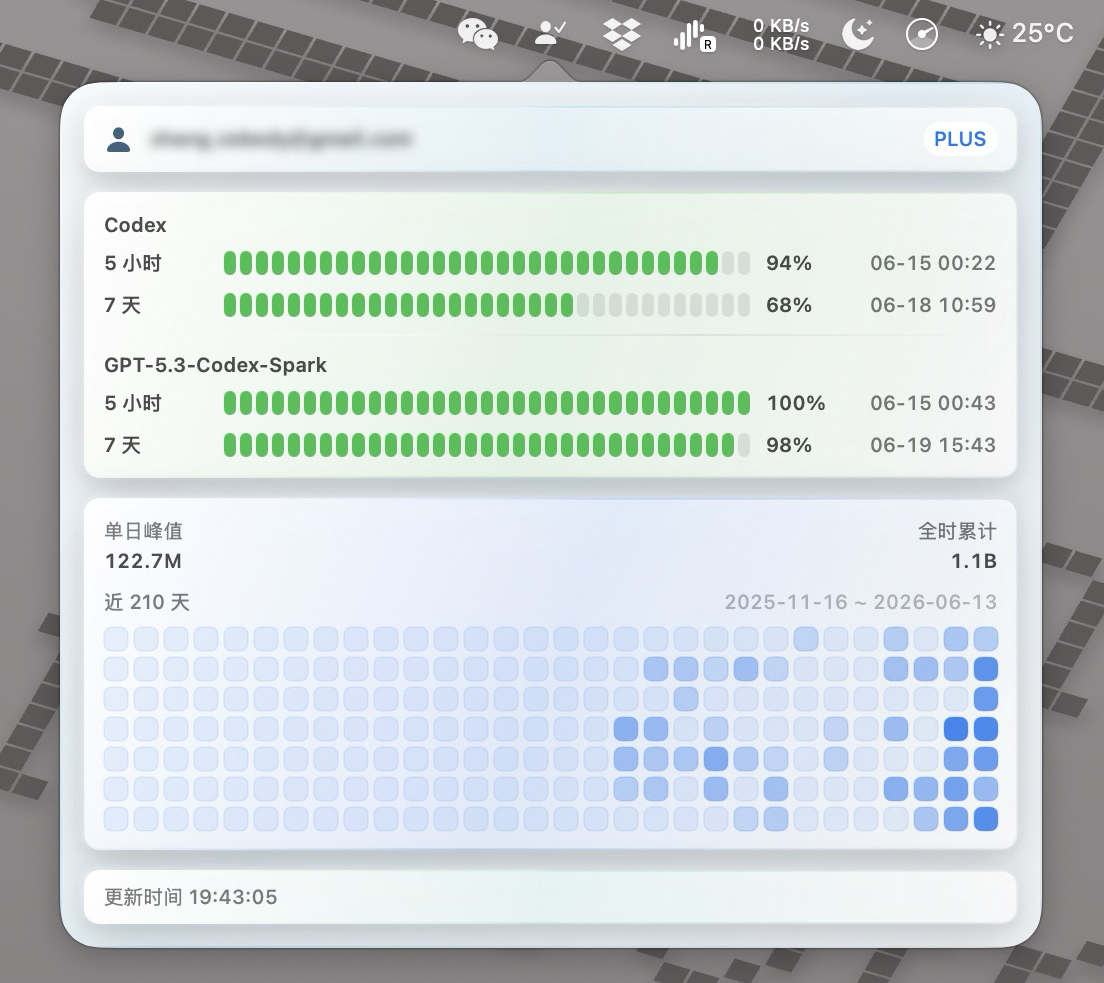
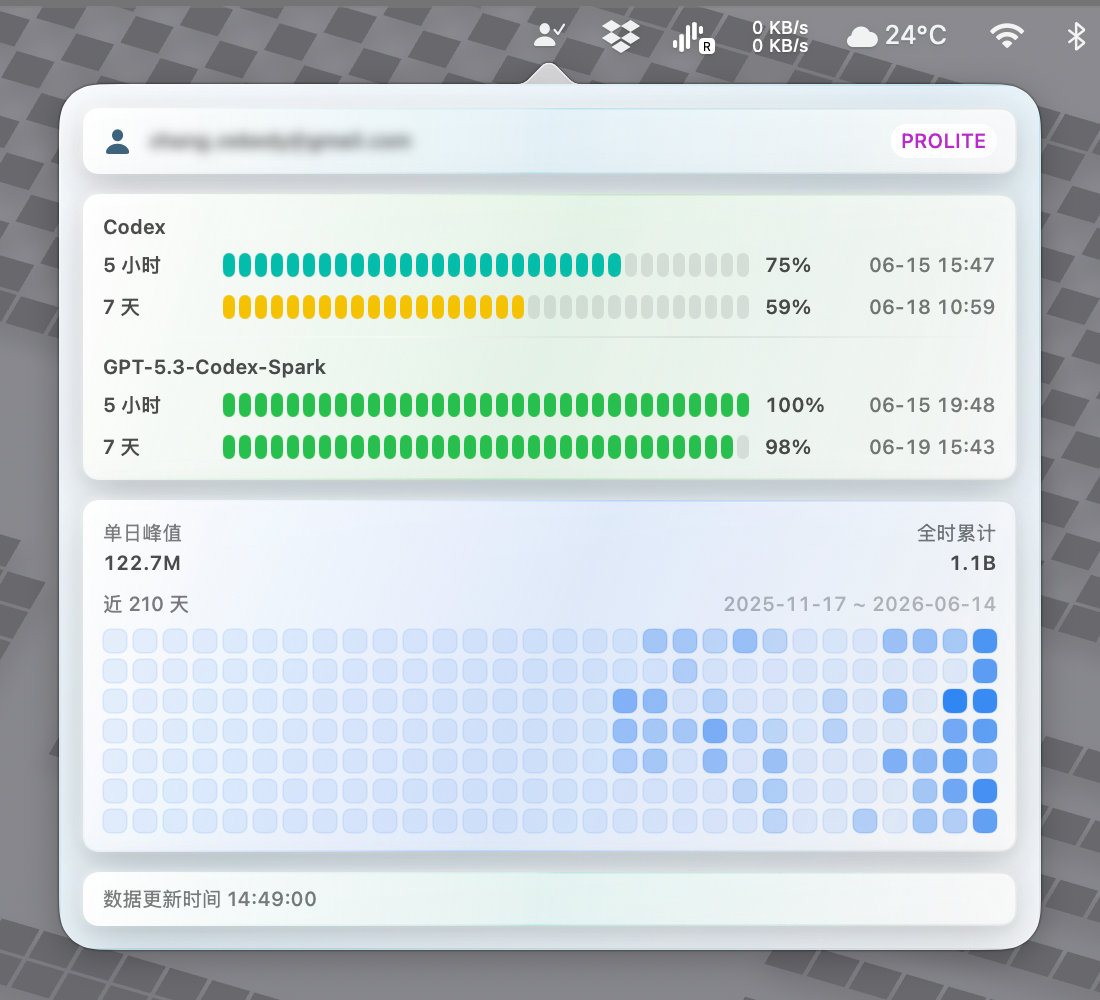
feat: 调整额度条颜色分档
- 将额度条按剩余额度每 20% 一档显示颜色
    - 同步 CodexBar 项目约定中的版本展示与额度条说明
    - 更新 1.3.5 发布版本、appcast 和截图资源

diff --git a/CodexBar/QuotaRow.swift b/CodexBar/QuotaRow.swift
@@ -122,9 +122,13 @@ private extension SegmentedQuotaBar {
         }
         
         switch percent {
-        case 50...:
+        case 80...:
             return .green
-        case 25..<50:
+        case 60..<80:
+            return .mint
+        case 40..<60:
+            return .yellow
+        case 20..<40:
             return .orange
         default:
             return .red

diff --git a/AGENTS.md b/AGENTS.md
@@ -16,7 +16,9 @@ Xcode target 关闭了 App Sandbox,因为应用需要启动本机 Codex CLI/App 
 xcodebuild -project CodexBar.xcodeproj -scheme CodexBar -destination 'generic/platform=macOS' build
 ```
 
-要求无 error 和 warning。SourceKit 经常对跨文件类型误报「Cannot find type ... in scope」(索引滞后),以 `xcodebuild` 实际编译结果为准。文档、图片或发布元数据的纯修改可以不跑构建,但最终回复要说明未运行。
+要求无 error 和 warning
+
+SourceKit 经常对跨文件类型误报「Cannot find type ... in scope」(索引滞后),以 `xcodebuild` 实际编译结果为准。当前 Xcode 可能输出 `Metadata extraction skipped. No AppIntents.framework dependency found.` 的 metadata 阶段 warning,不作为项目代码 warning 处理。文档、图片或发布元数据的纯修改可以不跑构建,但最终回复要说明未运行。
 
 工程使用文件系统同步组(`PBXFileSystemSynchronizedRootGroup`):新增/删除 `CodexBar/` 下源码通常无需修改 `project.pbxproj`,只有依赖、target/build settings 或资源归属变更才需要改它。
 
@@ -25,23 +27,25 @@ xcodebuild -project CodexBar.xcodeproj -scheme CodexBar -destination 'generic/pl
 数据流:`CodexRateLimitService`(JSON-RPC 常驻连接)→ `RateLimitsViewModel`(状态发布)→ `StatusItemController`(菜单栏图标刷新)/`RateLimitsMenuView`(popover 弹窗)。
 
 - `CodexBarApp.swift`:`@main`,仅声明占位 `Settings { EmptyView() }` Scene;真实 UI 由 `CodexBarAppDelegate` 驱动。同文件有 `nonisolated extension Bundle` 提供 `shortVersionString` 和 `displayVersionLabel`(`v1.2.3`,缺失回退 `--`)。
-- `StatusItemController.swift`:`CodexBarAppDelegate` 持有 `RateLimitsViewModel` 和 `AppUpdater`。私有 `StatusItemController` 配置菜单栏按钮、popover、Combine 订阅和自动刷新;左键切换 popover,右键或 Control 点击弹出「设置 / 退出」菜单。popover 使用手写淡入淡出、`PopoverState` 状态机、本地/全局 mouse monitor 外部点击关闭,并在显示后延迟调用 `refreshIfNeeded()`。
-- `SettingsWindowController.swift`:独立管理设置窗口生命周期,复用同一个 `NSWindow`,通过 status item 所在屏幕居中,内容为注入 `AppUpdater` 的 `AppSettingsView`。
-- `RateLimitsViewModel.swift`:主线程 `ObservableObject`,只发布 `snapshot`、`isRefreshing`、`lastError`。错误状态单一来源是 `lastError: CodexRateLimitError?`,`errorMessage`、`requiresLogin`、`hasError` 都是派生计算属性,不要增加并列错误布尔或重复错误字符串状态。
-- `CodexRateLimitService.swift`:非 UI 服务,负责 app-server 进程、JSON-RPC 请求/响应、连接复用、认证重试和 usage 能力降级。
+- `StatusItemController.swift`:`CodexBarAppDelegate` 持有 `RateLimitsViewModel` 和 `AppUpdater`。私有 `StatusItemController` 配置菜单栏按钮、popover、Combine 订阅和自动刷新;左键切换 popover,右键或 Control 点击弹出「设置 / 退出」菜单。popover 使用手写淡入淡出、`PopoverState` 状态机、本地/全局 mouse monitor 外部点击关闭,并在显示后延迟调用 `refreshIfNeeded()`;设置窗口注入同一个 `RateLimitsViewModel` 和 `AppUpdater`。
+- `SettingsWindowController.swift`:独立管理设置窗口生命周期,复用同一个 `NSWindow`,内容为注入 `RateLimitsViewModel` 和 `AppUpdater` 的 `AppSettingsView`。首次显示或关闭后重开时通过 status item 所在屏幕居中;窗口已可见时再次打开只负责 `deminiaturize`、激活应用并置顶,不要重新居中或创建第二个窗口。
+- `RateLimitsViewModel.swift`:主线程 `ObservableObject`,发布 `snapshot`、`isRefreshing`、`lastError` 和 `codexConnectionInfo`。错误状态单一来源是 `lastError: CodexRateLimitError?`,`errorMessage`、`requiresLogin`、`hasError` 都是派生计算属性,不要增加并列错误布尔或重复错误字符串状态。`codexConnectionInfo` 来自 `CodexRateLimitService.currentConnectionInfo()`。
+- `CodexRateLimitService.swift`:非 UI 服务,负责 app-server 进程、JSON-RPC 请求/响应、连接复用、认证重试、usage 能力降级,并记录当前连接实际启动的 Codex 来源、路径和运行版本。
+- `CodexCLIResolver.swift`:Codex 可执行文件解析和 app-server 环境构造入口。负责区分 PATH 中的全局 `codex` 与 `/Applications/Codex.app/Contents/Resources/codex`,并给 app-server 和版本探测共用同一份真实用户环境。
+- `CodexCLIVersionService.swift`:设置页 Codex 版本探测服务和展示模型。并发读取全局 CLI 与 Codex App 内置 CLI 的 `--version`,合成磁盘安装版本、当前运行版本和「已更新至」提示。
 - `RateLimitModels.swift`:wire DTO 保持纯 `Decodable`,展示排序/兜底只放在业务快照转换里。核心模型是 `CodexQuotaSnapshot` → `CodexQuotaLimitSnapshot` → `QuotaWindow`,以及 `CodexUsageSnapshot`。
 - `RateLimitsMenuView.swift`:popover 主 UI,负责登录提示、账号卡片、limit 分节、使用量卡片、更新时间和错误行。邮箱双击可模糊/取消模糊,账号图标双击触发手动刷新。
 - `QuotaRow.swift`:单个 quota window 行和 `SegmentedQuotaBar`;条形图展示剩余额度而不是已用额度。
-- `UsageHeatmap.swift` / `TokenCountText.swift`:token 汇总、30 列 × 7 行热力图、hover tooltip 和 K/M/B 紧凑数字格式。
-- `AppSettingsView.swift` / `LoginItemSettings.swift`:设置窗口 UI 和 `SMAppService.mainApp` 开机自启。开机自启状态读取是同步 XPC,在设置窗口 `onAppear` 刷新。
+- `UsageHeatmap.swift` / `TokenCountText.swift`:token 汇总、30 列 × 7 行热力图、hover tooltip 和 token 数字格式。`TokenCountText` 对 1K 以下直接显示完整整数,1K 起使用 K/M/B 紧凑格式。
+- `AppSettingsView.swift` / `LoginItemSettings.swift`:设置窗口 UI、`SMAppService.mainApp` 开机自启和 Codex 版本区。开机自启状态读取是同步 XPC,在设置窗口 `onAppear` 刷新;Codex 版本区展示 CodexBar 版本、Codex CLI/Codex APP 版本与路径,路径点击复制并短暂显示「已复制」。
 - `AppUpdater.swift`:Sparkle 封装和更新状态文案路由。
 - `LiquidGlassStyle.swift`:Liquid Glass 视觉入口,包括 `.liquidGlassSurface(...)`、`.liquidGlassCapsule(...)` 和 `LiquidGlassDivider`。
 
 ## Codex app-server 连接
 
-启动命令为 `codex app-server --listen stdio://`。解析命令时优先找 PATH 中的全局 `codex`,但如果找到的路径等同于 `/Applications/Codex.app/Contents/Resources/codex`,则按内置 Codex.app CLI 处理;全局 CLI 不存在时回退 Codex.app 内置 CLI;两者都没有时展示「找不到 Codex CLI 或 Codex App」。
+启动命令为 `codex app-server --listen stdio://`。解析命令统一走 `CodexCLIResolver.resolveAppServerCommand()`:优先找 PATH 中的全局 `codex`,但如果找到的路径等同于 `/Applications/Codex.app/Contents/Resources/codex`,则按内置 Codex.app CLI 处理;全局 CLI 不存在时回退 Codex.app 内置 CLI;两者都没有时展示「找不到 Codex CLI 或 Codex App」。
 
-启动环境由 `CodexRateLimitService.appServerEnvironment()` 构造:保留当前环境,但 `HOME` 使用 `getpwuid(getuid())` 得到的真实用户 home,同步设置 `USER`、`LOGNAME`,合并 Homebrew、npm global、`.local`、Volta 和系统路径,并确保 `TERM` 有值。不要改回 Xcode sandbox/container 的 `HOME`,否则会读不到 `~/.codex/auth.json`。
+启动环境由 `CodexCLIResolver.environment` 构造:保留当前环境,但 `HOME` 使用 `getpwuid(getuid())` 得到的真实用户 home,同步设置 `USER`、`LOGNAME`,合并 Homebrew、npm global、`.local`、Volta 和系统路径,并确保 `TERM` 有值。不要改回 Xcode sandbox/container 的 `HOME`,否则会读不到 `~/.codex/auth.json`。
 
 应用维持一条常驻连接。首次握手必须在请求额度前完成:
 
@@ -56,7 +60,22 @@ xcodebuild -project CodexBar.xcodeproj -scheme CodexBar -destination 'generic/pl
 - `account/rateLimits/read`:额度数据,认证失败时先同会话调用 `account/read`(`refreshToken: true`)再重试一次;仍失败抛 `authenticationRequired`。
 - `account/usage/read`:token 统计,读取 `summary.lifetimeTokens`、`summary.peakDailyTokens`、`dailyUsageBuckets`。如果 app-server 返回 method not found/unknown/unsupported/not supported,当前连接的 `isUsageReadAvailable` 置为 false,本连接后续不再请求 usage;其他 usage 错误也只隐藏 token 区域,额度信息仍正常显示。
 
+`initialize` 响应解析为 `InitializeResult`,其中 `userAgent` 的首个 token 形如 `codex_bar/0.139.0 (...)`;`CodexRateLimitService.serverVersion(fromUserAgent:)` 取 `/` 后版本号作为当前运行版本。每条连接保存 `CodexCLIConnectionInfo(source, executablePath, version, openedAt)`,设置页用它标记「当前使用」。
+
 `requestTimeout` 是 20 秒。`JSONLineReader` 按行读取 stdout,只消费匹配请求 id 的响应;`PipeDrain` 持续排空 stderr 且不进入用户可见文案。
+
+## Codex 版本展示
+
+设置页的「Codex 版本」分区同时展示两个来源:
+
+- `Codex CLI`:PATH 中解析到的全局 CLI,图标使用 `terminal`。
+- `Codex APP`:`/Applications/Codex.app/Contents/Resources/codex` 或等价路径,图标使用 `app.badge`。
+
+`CodexCLIVersionService` 通过 `codex --version` 探测磁盘安装版本,全局和内置两个探测先并发启动再分别收集,单个探测超时 5 秒。探测错误只展示固定文案(`启动失败`/`读取超时`/`读取失败`/`版本未知`),不要把 stderr 原文透传给用户。
+
+`CodexCLIVersionViewModel.refresh()` 会合并并发触发,并对 60 秒内的重复触发节流。设置页在 `onAppear` 和 `NSApplication.didBecomeActiveNotification` 时调用刷新;当前没有用户可见的手动刷新按钮。路径行点击后复制到剪贴板,对应来源显示「已复制」1.5 秒。
+
+当前使用来源由 `RateLimitsViewModel.codexConnectionInfo` 决定。当前行优先展示 app-server 握手自报的运行版本;非当前行展示磁盘安装版本。如果当前运行版本与磁盘安装版本不同,说明后台升级后当前连接尚未重建,UI 显示「已更新至 <version>」。app-server 每小时连接回收后会重新握手并更新当前运行版本。
 
 ## 额度与使用量模型
 
@@ -76,7 +95,7 @@ xcodebuild -project CodexBar.xcodeproj -scheme CodexBar -destination 'generic/pl
 `CodexRateLimitService` 是 `nonisolated final class` + `@unchecked Sendable`,连接状态只在私有串行 `DispatchQueue(label: "CodexBar.app-server")` 上读写。
 
 - 进程已退出 → 重建。
-- 连接存活超过 `connectionMaxAge`(1 小时)→ 关闭后重建,覆盖 Codex 升级或服务端状态漂移。
+- 连接存活超过 `connectionMaxAge`(1 小时)→ 关闭后重建,覆盖 Codex 升级或服务端状态漂移,并刷新 `CodexCLIConnectionInfo` 的运行版本。
 - 复用连接上的非登录类请求失败 → 丢弃连接,重建一次再试。
 - 全新连接上的失败 → 直接抛出,避免故障时重复完整握手。
 - 登录类错误(`requiresLogin`)→ 丢弃连接但不立即重试;下次轮询重新启动进程读取最新登录状态,用户重新登录后最多一分钟自动恢复。
@@ -85,7 +104,7 @@ xcodebuild -project CodexBar.xcodeproj -scheme CodexBar -destination 'generic/pl
 
 工程开启 `SWIFT_DEFAULT_ACTOR_ISOLATION = MainActor`:未显式标注的类型会推断为 MainActor 隔离。因此非 UI 类型、DTO、模型、服务辅助类型和部分静态工具必须显式 `nonisolated`,否则容易出现「Call to main actor-isolated initializer in a synchronous nonisolated context」。
 
-UI 层(`CodexBarAppDelegate`、`StatusItemController`、`SettingsWindowController`、`RateLimitsViewModel`、`AppUpdater`、`LoginItemSettings`)保持 `@MainActor` 或主线程使用。服务层对外暴露 async API,内部用 queue 串行化 Process/Pipe 状态。
+UI 层(`CodexBarAppDelegate`、`StatusItemController`、`SettingsWindowController`、`RateLimitsViewModel`、`AppUpdater`、`LoginItemSettings`、`CodexCLIVersionViewModel`)保持 `@MainActor` 或主线程使用。服务层对外暴露 async API,内部用 queue 串行化 Process/Pipe 状态。`CodexRateLimitService` 使用 `CodexBar.app-server` 串行队列,`CodexCLIVersionService` 使用 `CodexBar.codex-version` 串行队列。
 
 ## UI 与错误展示约定
 
@@ -93,12 +112,13 @@ UI 层(`CodexBarAppDelegate`、`StatusItemController`、`SettingsWindowControlle
 - App 图标保持白底黑色 `timelapse`。
 - popover 宽度由 `RateLimitsMenuView.menuWidth` 绑定到热力图总宽度和 padding;修改热力图尺寸时同步检查弹窗宽度。
 - 弹窗整体采用 Liquid Glass 风格:外层和分区使用 `.liquidGlassSurface(...)`,plan 徽章用 `.liquidGlassCapsule`,分隔线用 `LiquidGlassDivider`。不要把设置、额度、usage 区块改回普通卡片样式。
+- `LiquidGlassStyle.swift` 当前是自绘 SwiftUI 玻璃效果(渐变、描边、高光和阴影),不是 macOS 26 原生 `.glassEffect`。不要在没有明确设计要求时切换到系统 `.glassEffect`,当前视觉以自绘方案为准。
 - plan 徽章颜色由 `planBadgeTint(for:)` 按子串匹配,优先级:enterprise → team/business → pro → plus → edu → free → 默认 cyan。
 - 弹窗按 limit 分节展示,标题取 `limitName` 回退 `limitId` 并首字母大写;节之间用 `LiquidGlassDivider`。
-- 额度条展示剩余百分比(`100 - usedPercent`),颜色阈值:剩余 50% 及以上绿色,25% 到 50% 橙色,低于 25% 红色;无数据使用占位色并显示 `--` / `暂无数据`。
+- 额度条展示剩余百分比(`100 - usedPercent`),颜色按 20% 一档递进:0-19 红色,20-39 橙色,40-59 黄色,60-79 薄荷色,80-100 绿色;无数据使用占位色并显示 `--` / `暂无数据`。
 - 重置时间格式 `MM-dd HH:mm`,更新时间格式 `HH:mm:ss`;更新时间行不展示应用版本号。
-- token 区域显示「单日峰值」和「全时累计」,数字通过 `TokenCountText` 格式化为 K/M/B,下方是 30 × 7 蓝色热力图;hover tooltip 显示日期和单日 token。
-- 设置走菜单栏图标右键或 Control 点击菜单的「设置」项,打开独立 `AppSettingsView` 窗口;不要恢复为 Option 点击或 popover 内设置区。
+- token 区域显示「单日峰值」和「全时累计」,数字通过 `TokenCountText` 格式化;1K 以下直接显示整数,1K 起显示 K/M/B。下方是 30 × 7 蓝色热力图;hover tooltip 显示日期和单日 token。
+- 设置走菜单栏图标右键或 Control 点击菜单的「设置」项,打开独立 `AppSettingsView` 窗口;不要恢复为 Option 点击或 popover 内设置区。设置页包含「CodexBar 版本」和「Codex 版本」两个版本区域;Codex CLI/Codex APP 子行相对标题缩进,并用「当前使用」徽章标记实际运行来源。
 - 登录类错误(`requiresLogin`)时,popover 顶部显示橙色「Codex 未登录」,旧快照 opacity 0.4 置灰保留,红色错误行被抑制。
 - 其他错误显示红色小字 `errorDescription`,旧快照保持全亮度。
 - `refresh()` 开始时不要清空 `lastError`;错误文案保持到某次刷新成功才消失。旧额度快照永远不因失败而清空。
@@ -122,7 +142,7 @@ Info.plist 位于 `CodexBar/Resources/Info.plist`,当前 `SUFeedURL = https://co
 
 CodexBar 只与本机 app-server 进程通信,账号与额度数据不发往第三方服务。除 Sparkle appcast/DMG 下载外,应用自身不做网络请求。
 
-App Sandbox 必须保持关闭(`ENABLE_APP_SANDBOX = NO`),否则无法可靠启动 Codex CLI 或读取当前用户登录状态。服务层必须用真实用户 home 运行 app-server,以免 Xcode 运行时 `HOME` 指向 app container 导致 "codex account authentication required"。
+App Sandbox 必须保持关闭(`ENABLE_APP_SANDBOX = NO`),否则无法可靠启动 Codex CLI 或读取当前用户登录状态。`CodexCLIResolver.environment` 必须用真实用户 home 运行 app-server 和版本探测,以免 Xcode 运行时 `HOME` 指向 app container 导致 "codex account authentication required"。
 
 ## Git 提交规范
 

diff --git a/CLAUDE.md b/CLAUDE.md
@@ -16,7 +16,9 @@ Xcode target 关闭了 App Sandbox,因为应用需要启动本机 Codex CLI/App 
 xcodebuild -project CodexBar.xcodeproj -scheme CodexBar -destination 'generic/platform=macOS' build
 ```
 
-要求无 error 和 warning。SourceKit 经常对跨文件类型误报「Cannot find type ... in scope」(索引滞后),以 `xcodebuild` 实际编译结果为准。文档、图片或发布元数据的纯修改可以不跑构建,但最终回复要说明未运行。
+要求无 error 和 warning
+
+SourceKit 经常对跨文件类型误报「Cannot find type ... in scope」(索引滞后),以 `xcodebuild` 实际编译结果为准。当前 Xcode 可能输出 `Metadata extraction skipped. No AppIntents.framework dependency found.` 的 metadata 阶段 warning,不作为项目代码 warning 处理。文档、图片或发布元数据的纯修改可以不跑构建,但最终回复要说明未运行。
 
 工程使用文件系统同步组(`PBXFileSystemSynchronizedRootGroup`):新增/删除 `CodexBar/` 下源码通常无需修改 `project.pbxproj`,只有依赖、target/build settings 或资源归属变更才需要改它。
 
@@ -25,23 +27,25 @@ xcodebuild -project CodexBar.xcodeproj -scheme CodexBar -destination 'generic/pl
 数据流:`CodexRateLimitService`(JSON-RPC 常驻连接)→ `RateLimitsViewModel`(状态发布)→ `StatusItemController`(菜单栏图标刷新)/`RateLimitsMenuView`(popover 弹窗)。
 
 - `CodexBarApp.swift`:`@main`,仅声明占位 `Settings { EmptyView() }` Scene;真实 UI 由 `CodexBarAppDelegate` 驱动。同文件有 `nonisolated extension Bundle` 提供 `shortVersionString` 和 `displayVersionLabel`(`v1.2.3`,缺失回退 `--`)。
-- `StatusItemController.swift`:`CodexBarAppDelegate` 持有 `RateLimitsViewModel` 和 `AppUpdater`。私有 `StatusItemController` 配置菜单栏按钮、popover、Combine 订阅和自动刷新;左键切换 popover,右键或 Control 点击弹出「设置 / 退出」菜单。popover 使用手写淡入淡出、`PopoverState` 状态机、本地/全局 mouse monitor 外部点击关闭,并在显示后延迟调用 `refreshIfNeeded()`。
-- `SettingsWindowController.swift`:独立管理设置窗口生命周期,复用同一个 `NSWindow`,通过 status item 所在屏幕居中,内容为注入 `AppUpdater` 的 `AppSettingsView`。
-- `RateLimitsViewModel.swift`:主线程 `ObservableObject`,只发布 `snapshot`、`isRefreshing`、`lastError`。错误状态单一来源是 `lastError: CodexRateLimitError?`,`errorMessage`、`requiresLogin`、`hasError` 都是派生计算属性,不要增加并列错误布尔或重复错误字符串状态。
-- `CodexRateLimitService.swift`:非 UI 服务,负责 app-server 进程、JSON-RPC 请求/响应、连接复用、认证重试和 usage 能力降级。
+- `StatusItemController.swift`:`CodexBarAppDelegate` 持有 `RateLimitsViewModel` 和 `AppUpdater`。私有 `StatusItemController` 配置菜单栏按钮、popover、Combine 订阅和自动刷新;左键切换 popover,右键或 Control 点击弹出「设置 / 退出」菜单。popover 使用手写淡入淡出、`PopoverState` 状态机、本地/全局 mouse monitor 外部点击关闭,并在显示后延迟调用 `refreshIfNeeded()`;设置窗口注入同一个 `RateLimitsViewModel` 和 `AppUpdater`。
+- `SettingsWindowController.swift`:独立管理设置窗口生命周期,复用同一个 `NSWindow`,内容为注入 `RateLimitsViewModel` 和 `AppUpdater` 的 `AppSettingsView`。首次显示或关闭后重开时通过 status item 所在屏幕居中;窗口已可见时再次打开只负责 `deminiaturize`、激活应用并置顶,不要重新居中或创建第二个窗口。
+- `RateLimitsViewModel.swift`:主线程 `ObservableObject`,发布 `snapshot`、`isRefreshing`、`lastError` 和 `codexConnectionInfo`。错误状态单一来源是 `lastError: CodexRateLimitError?`,`errorMessage`、`requiresLogin`、`hasError` 都是派生计算属性,不要增加并列错误布尔或重复错误字符串状态。`codexConnectionInfo` 来自 `CodexRateLimitService.currentConnectionInfo()`。
+- `CodexRateLimitService.swift`:非 UI 服务,负责 app-server 进程、JSON-RPC 请求/响应、连接复用、认证重试、usage 能力降级,并记录当前连接实际启动的 Codex 来源、路径和运行版本。
+- `CodexCLIResolver.swift`:Codex 可执行文件解析和 app-server 环境构造入口。负责区分 PATH 中的全局 `codex` 与 `/Applications/Codex.app/Contents/Resources/codex`,并给 app-server 和版本探测共用同一份真实用户环境。
+- `CodexCLIVersionService.swift`:设置页 Codex 版本探测服务和展示模型。并发读取全局 CLI 与 Codex App 内置 CLI 的 `--version`,合成磁盘安装版本、当前运行版本和「已更新至」提示。
 - `RateLimitModels.swift`:wire DTO 保持纯 `Decodable`,展示排序/兜底只放在业务快照转换里。核心模型是 `CodexQuotaSnapshot` → `CodexQuotaLimitSnapshot` → `QuotaWindow`,以及 `CodexUsageSnapshot`。
 - `RateLimitsMenuView.swift`:popover 主 UI,负责登录提示、账号卡片、limit 分节、使用量卡片、更新时间和错误行。邮箱双击可模糊/取消模糊,账号图标双击触发手动刷新。
 - `QuotaRow.swift`:单个 quota window 行和 `SegmentedQuotaBar`;条形图展示剩余额度而不是已用额度。
-- `UsageHeatmap.swift` / `TokenCountText.swift`:token 汇总、30 列 × 7 行热力图、hover tooltip 和 K/M/B 紧凑数字格式。
-- `AppSettingsView.swift` / `LoginItemSettings.swift`:设置窗口 UI 和 `SMAppService.mainApp` 开机自启。开机自启状态读取是同步 XPC,在设置窗口 `onAppear` 刷新。
+- `UsageHeatmap.swift` / `TokenCountText.swift`:token 汇总、30 列 × 7 行热力图、hover tooltip 和 token 数字格式。`TokenCountText` 对 1K 以下直接显示完整整数,1K 起使用 K/M/B 紧凑格式。
+- `AppSettingsView.swift` / `LoginItemSettings.swift`:设置窗口 UI、`SMAppService.mainApp` 开机自启和 Codex 版本区。开机自启状态读取是同步 XPC,在设置窗口 `onAppear` 刷新;Codex 版本区展示 CodexBar 版本、Codex CLI/Codex APP 版本与路径,路径点击复制并短暂显示「已复制」。
 - `AppUpdater.swift`:Sparkle 封装和更新状态文案路由。
 - `LiquidGlassStyle.swift`:Liquid Glass 视觉入口,包括 `.liquidGlassSurface(...)`、`.liquidGlassCapsule(...)` 和 `LiquidGlassDivider`。
 
 ## Codex app-server 连接
 
-启动命令为 `codex app-server --listen stdio://`。解析命令时优先找 PATH 中的全局 `codex`,但如果找到的路径等同于 `/Applications/Codex.app/Contents/Resources/codex`,则按内置 Codex.app CLI 处理;全局 CLI 不存在时回退 Codex.app 内置 CLI;两者都没有时展示「找不到 Codex CLI 或 Codex App」。
+启动命令为 `codex app-server --listen stdio://`。解析命令统一走 `CodexCLIResolver.resolveAppServerCommand()`:优先找 PATH 中的全局 `codex`,但如果找到的路径等同于 `/Applications/Codex.app/Contents/Resources/codex`,则按内置 Codex.app CLI 处理;全局 CLI 不存在时回退 Codex.app 内置 CLI;两者都没有时展示「找不到 Codex CLI 或 Codex App」。
 
-启动环境由 `CodexRateLimitService.appServerEnvironment()` 构造:保留当前环境,但 `HOME` 使用 `getpwuid(getuid())` 得到的真实用户 home,同步设置 `USER`、`LOGNAME`,合并 Homebrew、npm global、`.local`、Volta 和系统路径,并确保 `TERM` 有值。不要改回 Xcode sandbox/container 的 `HOME`,否则会读不到 `~/.codex/auth.json`。
+启动环境由 `CodexCLIResolver.environment` 构造:保留当前环境,但 `HOME` 使用 `getpwuid(getuid())` 得到的真实用户 home,同步设置 `USER`、`LOGNAME`,合并 Homebrew、npm global、`.local`、Volta 和系统路径,并确保 `TERM` 有值。不要改回 Xcode sandbox/container 的 `HOME`,否则会读不到 `~/.codex/auth.json`。
 
 应用维持一条常驻连接。首次握手必须在请求额度前完成:
 
@@ -56,7 +60,22 @@ xcodebuild -project CodexBar.xcodeproj -scheme CodexBar -destination 'generic/pl
 - `account/rateLimits/read`:额度数据,认证失败时先同会话调用 `account/read`(`refreshToken: true`)再重试一次;仍失败抛 `authenticationRequired`。
 - `account/usage/read`:token 统计,读取 `summary.lifetimeTokens`、`summary.peakDailyTokens`、`dailyUsageBuckets`。如果 app-server 返回 method not found/unknown/unsupported/not supported,当前连接的 `isUsageReadAvailable` 置为 false,本连接后续不再请求 usage;其他 usage 错误也只隐藏 token 区域,额度信息仍正常显示。
 
+`initialize` 响应解析为 `InitializeResult`,其中 `userAgent` 的首个 token 形如 `codex_bar/0.139.0 (...)`;`CodexRateLimitService.serverVersion(fromUserAgent:)` 取 `/` 后版本号作为当前运行版本。每条连接保存 `CodexCLIConnectionInfo(source, executablePath, version, openedAt)`,设置页用它标记「当前使用」。
+
 `requestTimeout` 是 20 秒。`JSONLineReader` 按行读取 stdout,只消费匹配请求 id 的响应;`PipeDrain` 持续排空 stderr 且不进入用户可见文案。
+
+## Codex 版本展示
+
+设置页的「Codex 版本」分区同时展示两个来源:
+
+- `Codex CLI`:PATH 中解析到的全局 CLI,图标使用 `terminal`。
+- `Codex APP`:`/Applications/Codex.app/Contents/Resources/codex` 或等价路径,图标使用 `app.badge`。
+
+`CodexCLIVersionService` 通过 `codex --version` 探测磁盘安装版本,全局和内置两个探测先并发启动再分别收集,单个探测超时 5 秒。探测错误只展示固定文案(`启动失败`/`读取超时`/`读取失败`/`版本未知`),不要把 stderr 原文透传给用户。
+
+`CodexCLIVersionViewModel.refresh()` 会合并并发触发,并对 60 秒内的重复触发节流。设置页在 `onAppear` 和 `NSApplication.didBecomeActiveNotification` 时调用刷新;当前没有用户可见的手动刷新按钮。路径行点击后复制到剪贴板,对应来源显示「已复制」1.5 秒。
+
+当前使用来源由 `RateLimitsViewModel.codexConnectionInfo` 决定。当前行优先展示 app-server 握手自报的运行版本;非当前行展示磁盘安装版本。如果当前运行版本与磁盘安装版本不同,说明后台升级后当前连接尚未重建,UI 显示「已更新至 <version>」。app-server 每小时连接回收后会重新握手并更新当前运行版本。
 
 ## 额度与使用量模型
 
@@ -76,7 +95,7 @@ xcodebuild -project CodexBar.xcodeproj -scheme CodexBar -destination 'generic/pl
 `CodexRateLimitService` 是 `nonisolated final class` + `@unchecked Sendable`,连接状态只在私有串行 `DispatchQueue(label: "CodexBar.app-server")` 上读写。
 
 - 进程已退出 → 重建。
-- 连接存活超过 `connectionMaxAge`(1 小时)→ 关闭后重建,覆盖 Codex 升级或服务端状态漂移。
+- 连接存活超过 `connectionMaxAge`(1 小时)→ 关闭后重建,覆盖 Codex 升级或服务端状态漂移,并刷新 `CodexCLIConnectionInfo` 的运行版本。
 - 复用连接上的非登录类请求失败 → 丢弃连接,重建一次再试。
 - 全新连接上的失败 → 直接抛出,避免故障时重复完整握手。
 - 登录类错误(`requiresLogin`)→ 丢弃连接但不立即重试;下次轮询重新启动进程读取最新登录状态,用户重新登录后最多一分钟自动恢复。
@@ -85,7 +104,7 @@ xcodebuild -project CodexBar.xcodeproj -scheme CodexBar -destination 'generic/pl
 
 工程开启 `SWIFT_DEFAULT_ACTOR_ISOLATION = MainActor`:未显式标注的类型会推断为 MainActor 隔离。因此非 UI 类型、DTO、模型、服务辅助类型和部分静态工具必须显式 `nonisolated`,否则容易出现「Call to main actor-isolated initializer in a synchronous nonisolated context」。
 
-UI 层(`CodexBarAppDelegate`、`StatusItemController`、`SettingsWindowController`、`RateLimitsViewModel`、`AppUpdater`、`LoginItemSettings`)保持 `@MainActor` 或主线程使用。服务层对外暴露 async API,内部用 queue 串行化 Process/Pipe 状态。
+UI 层(`CodexBarAppDelegate`、`StatusItemController`、`SettingsWindowController`、`RateLimitsViewModel`、`AppUpdater`、`LoginItemSettings`、`CodexCLIVersionViewModel`)保持 `@MainActor` 或主线程使用。服务层对外暴露 async API,内部用 queue 串行化 Process/Pipe 状态。`CodexRateLimitService` 使用 `CodexBar.app-server` 串行队列,`CodexCLIVersionService` 使用 `CodexBar.codex-version` 串行队列。
 
 ## UI 与错误展示约定
 
@@ -93,12 +112,13 @@ UI 层(`CodexBarAppDelegate`、`StatusItemController`、`SettingsWindowControlle
 - App 图标保持白底黑色 `timelapse`。
 - popover 宽度由 `RateLimitsMenuView.menuWidth` 绑定到热力图总宽度和 padding;修改热力图尺寸时同步检查弹窗宽度。
 - 弹窗整体采用 Liquid Glass 风格:外层和分区使用 `.liquidGlassSurface(...)`,plan 徽章用 `.liquidGlassCapsule`,分隔线用 `LiquidGlassDivider`。不要把设置、额度、usage 区块改回普通卡片样式。
+- `LiquidGlassStyle.swift` 当前是自绘 SwiftUI 玻璃效果(渐变、描边、高光和阴影),不是 macOS 26 原生 `.glassEffect`。不要在没有明确设计要求时切换到系统 `.glassEffect`,当前视觉以自绘方案为准。
 - plan 徽章颜色由 `planBadgeTint(for:)` 按子串匹配,优先级:enterprise → team/business → pro → plus → edu → free → 默认 cyan。
 - 弹窗按 limit 分节展示,标题取 `limitName` 回退 `limitId` 并首字母大写;节之间用 `LiquidGlassDivider`。
-- 额度条展示剩余百分比(`100 - usedPercent`),颜色阈值:剩余 50% 及以上绿色,25% 到 50% 橙色,低于 25% 红色;无数据使用占位色并显示 `--` / `暂无数据`。
+- 额度条展示剩余百分比(`100 - usedPercent`),颜色按 20% 一档递进:0-19 红色,20-39 橙色,40-59 黄色,60-79 薄荷色,80-100 绿色;无数据使用占位色并显示 `--` / `暂无数据`。
 - 重置时间格式 `MM-dd HH:mm`,更新时间格式 `HH:mm:ss`;更新时间行不展示应用版本号。
-- token 区域显示「单日峰值」和「全时累计」,数字通过 `TokenCountText` 格式化为 K/M/B,下方是 30 × 7 蓝色热力图;hover tooltip 显示日期和单日 token。
-- 设置走菜单栏图标右键或 Control 点击菜单的「设置」项,打开独立 `AppSettingsView` 窗口;不要恢复为 Option 点击或 popover 内设置区。
+- token 区域显示「单日峰值」和「全时累计」,数字通过 `TokenCountText` 格式化;1K 以下直接显示整数,1K 起显示 K/M/B。下方是 30 × 7 蓝色热力图;hover tooltip 显示日期和单日 token。
+- 设置走菜单栏图标右键或 Control 点击菜单的「设置」项,打开独立 `AppSettingsView` 窗口;不要恢复为 Option 点击或 popover 内设置区。设置页包含「CodexBar 版本」和「Codex 版本」两个版本区域;Codex CLI/Codex APP 子行相对标题缩进,并用「当前使用」徽章标记实际运行来源。
 - 登录类错误(`requiresLogin`)时,popover 顶部显示橙色「Codex 未登录」,旧快照 opacity 0.4 置灰保留,红色错误行被抑制。
 - 其他错误显示红色小字 `errorDescription`,旧快照保持全亮度。
 - `refresh()` 开始时不要清空 `lastError`;错误文案保持到某次刷新成功才消失。旧额度快照永远不因失败而清空。
@@ -122,7 +142,7 @@ Info.plist 位于 `CodexBar/Resources/Info.plist`,当前 `SUFeedURL = https://co
 
 CodexBar 只与本机 app-server 进程通信,账号与额度数据不发往第三方服务。除 Sparkle appcast/DMG 下载外,应用自身不做网络请求。
 
-App Sandbox 必须保持关闭(`ENABLE_APP_SANDBOX = NO`),否则无法可靠启动 Codex CLI 或读取当前用户登录状态。服务层必须用真实用户 home 运行 app-server,以免 Xcode 运行时 `HOME` 指向 app container 导致 "codex account authentication required"。
+App Sandbox 必须保持关闭(`ENABLE_APP_SANDBOX = NO`),否则无法可靠启动 Codex CLI 或读取当前用户登录状态。`CodexCLIResolver.environment` 必须用真实用户 home 运行 app-server 和版本探测,以免 Xcode 运行时 `HOME` 指向 app container 导致 "codex account authentication required"。
 
 ## Git 提交规范
 
